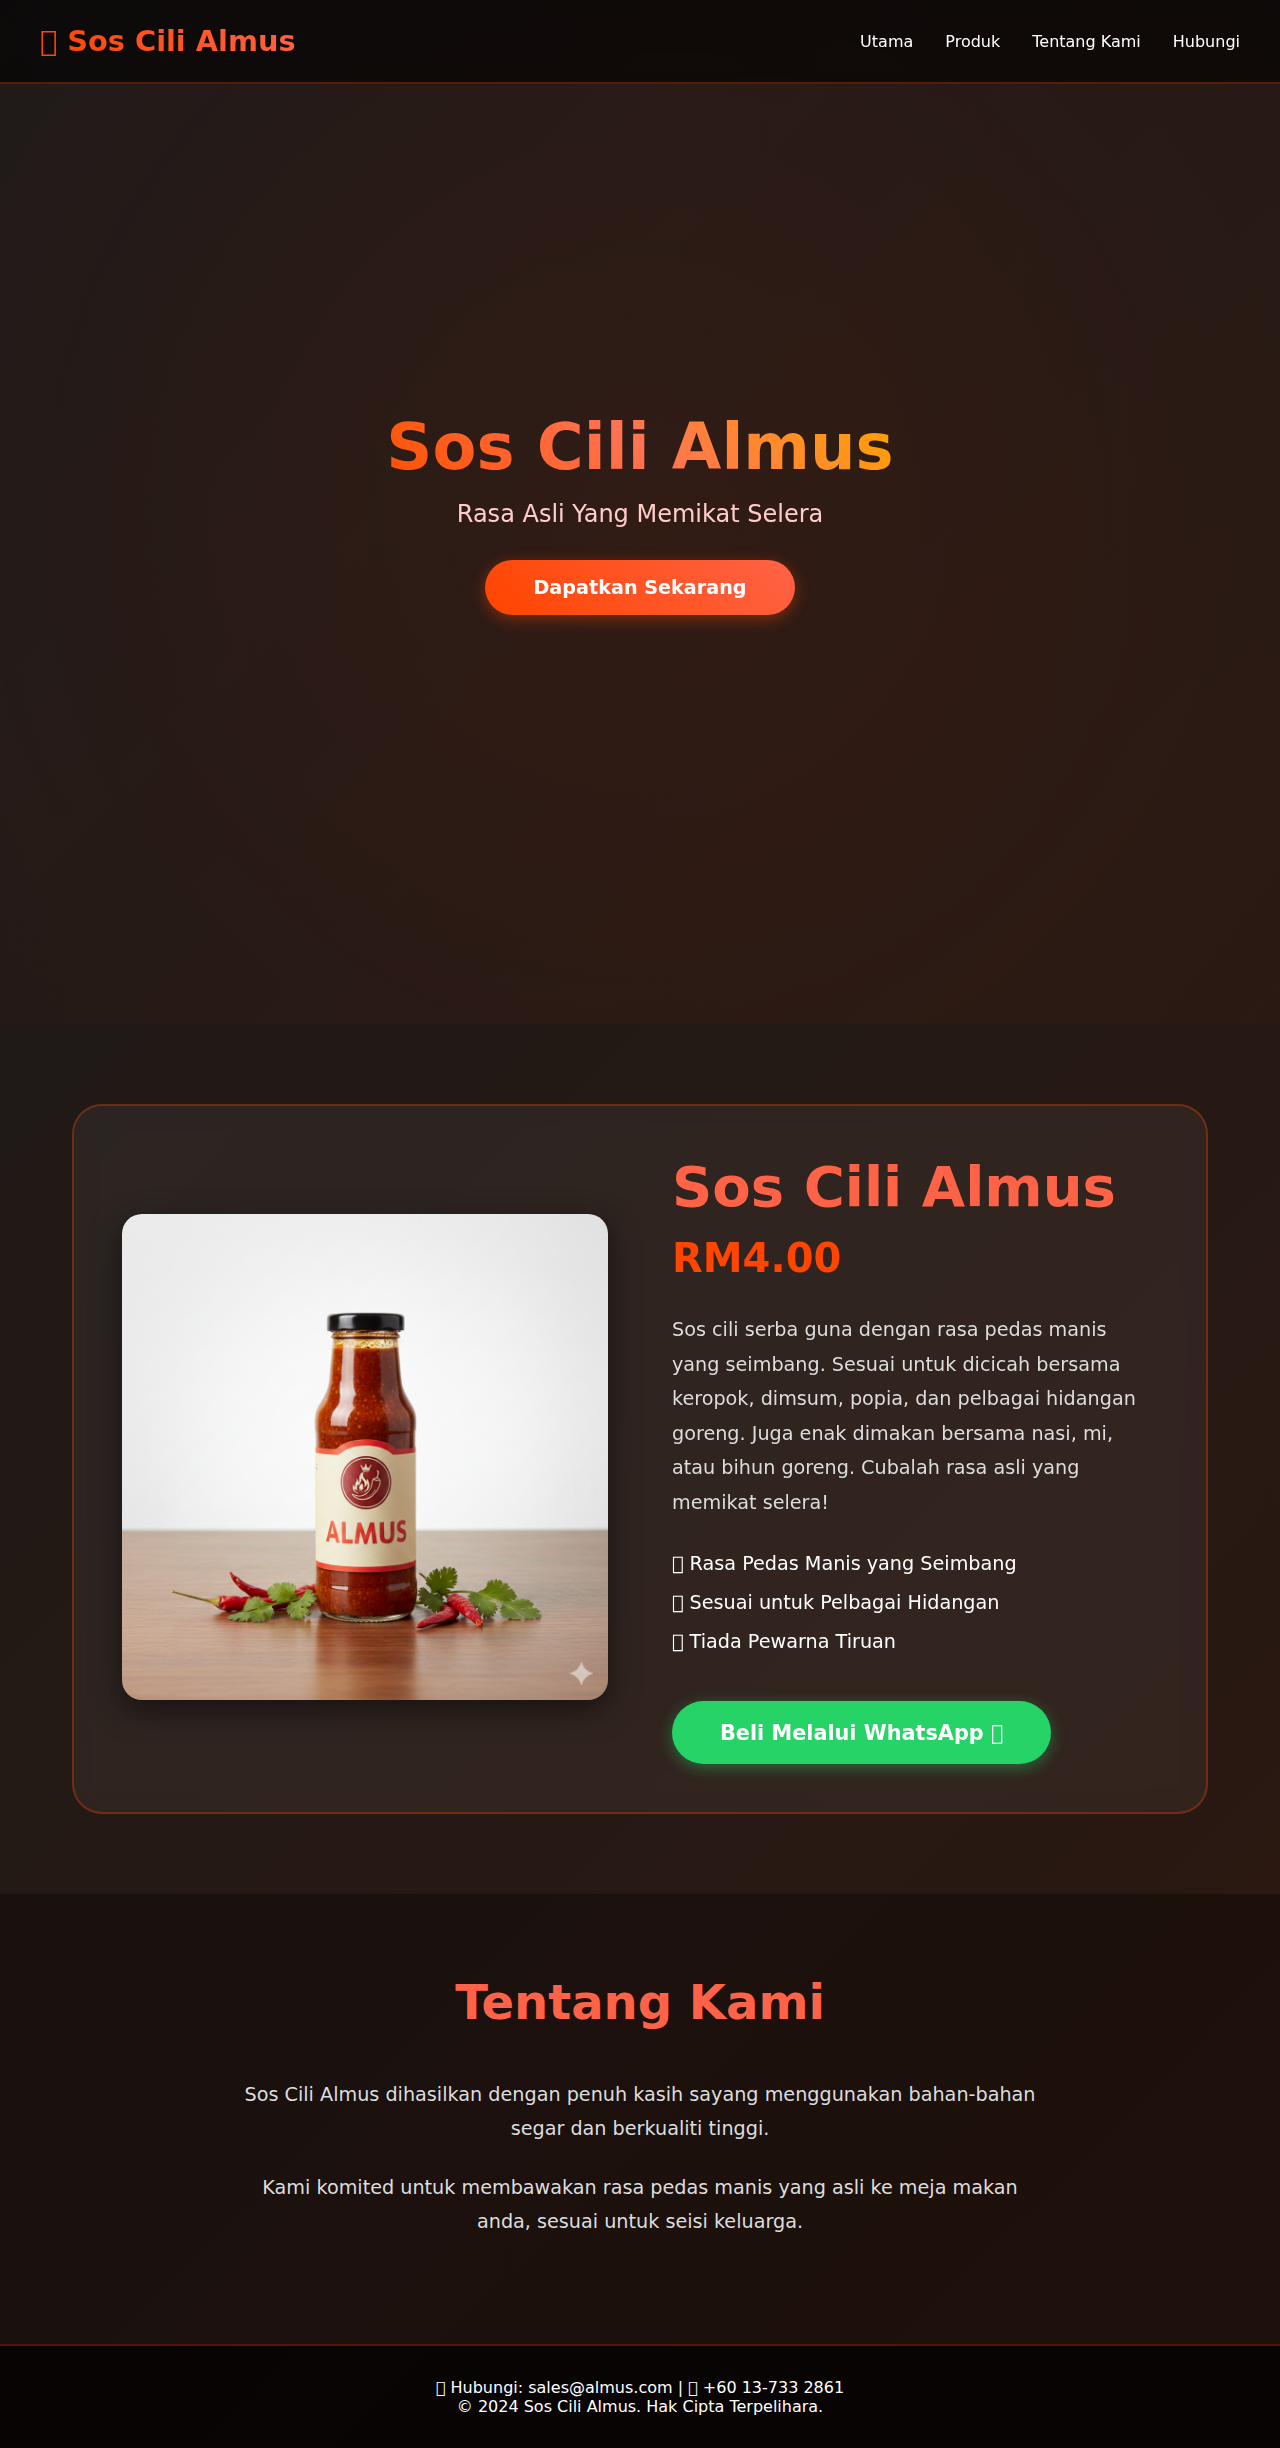
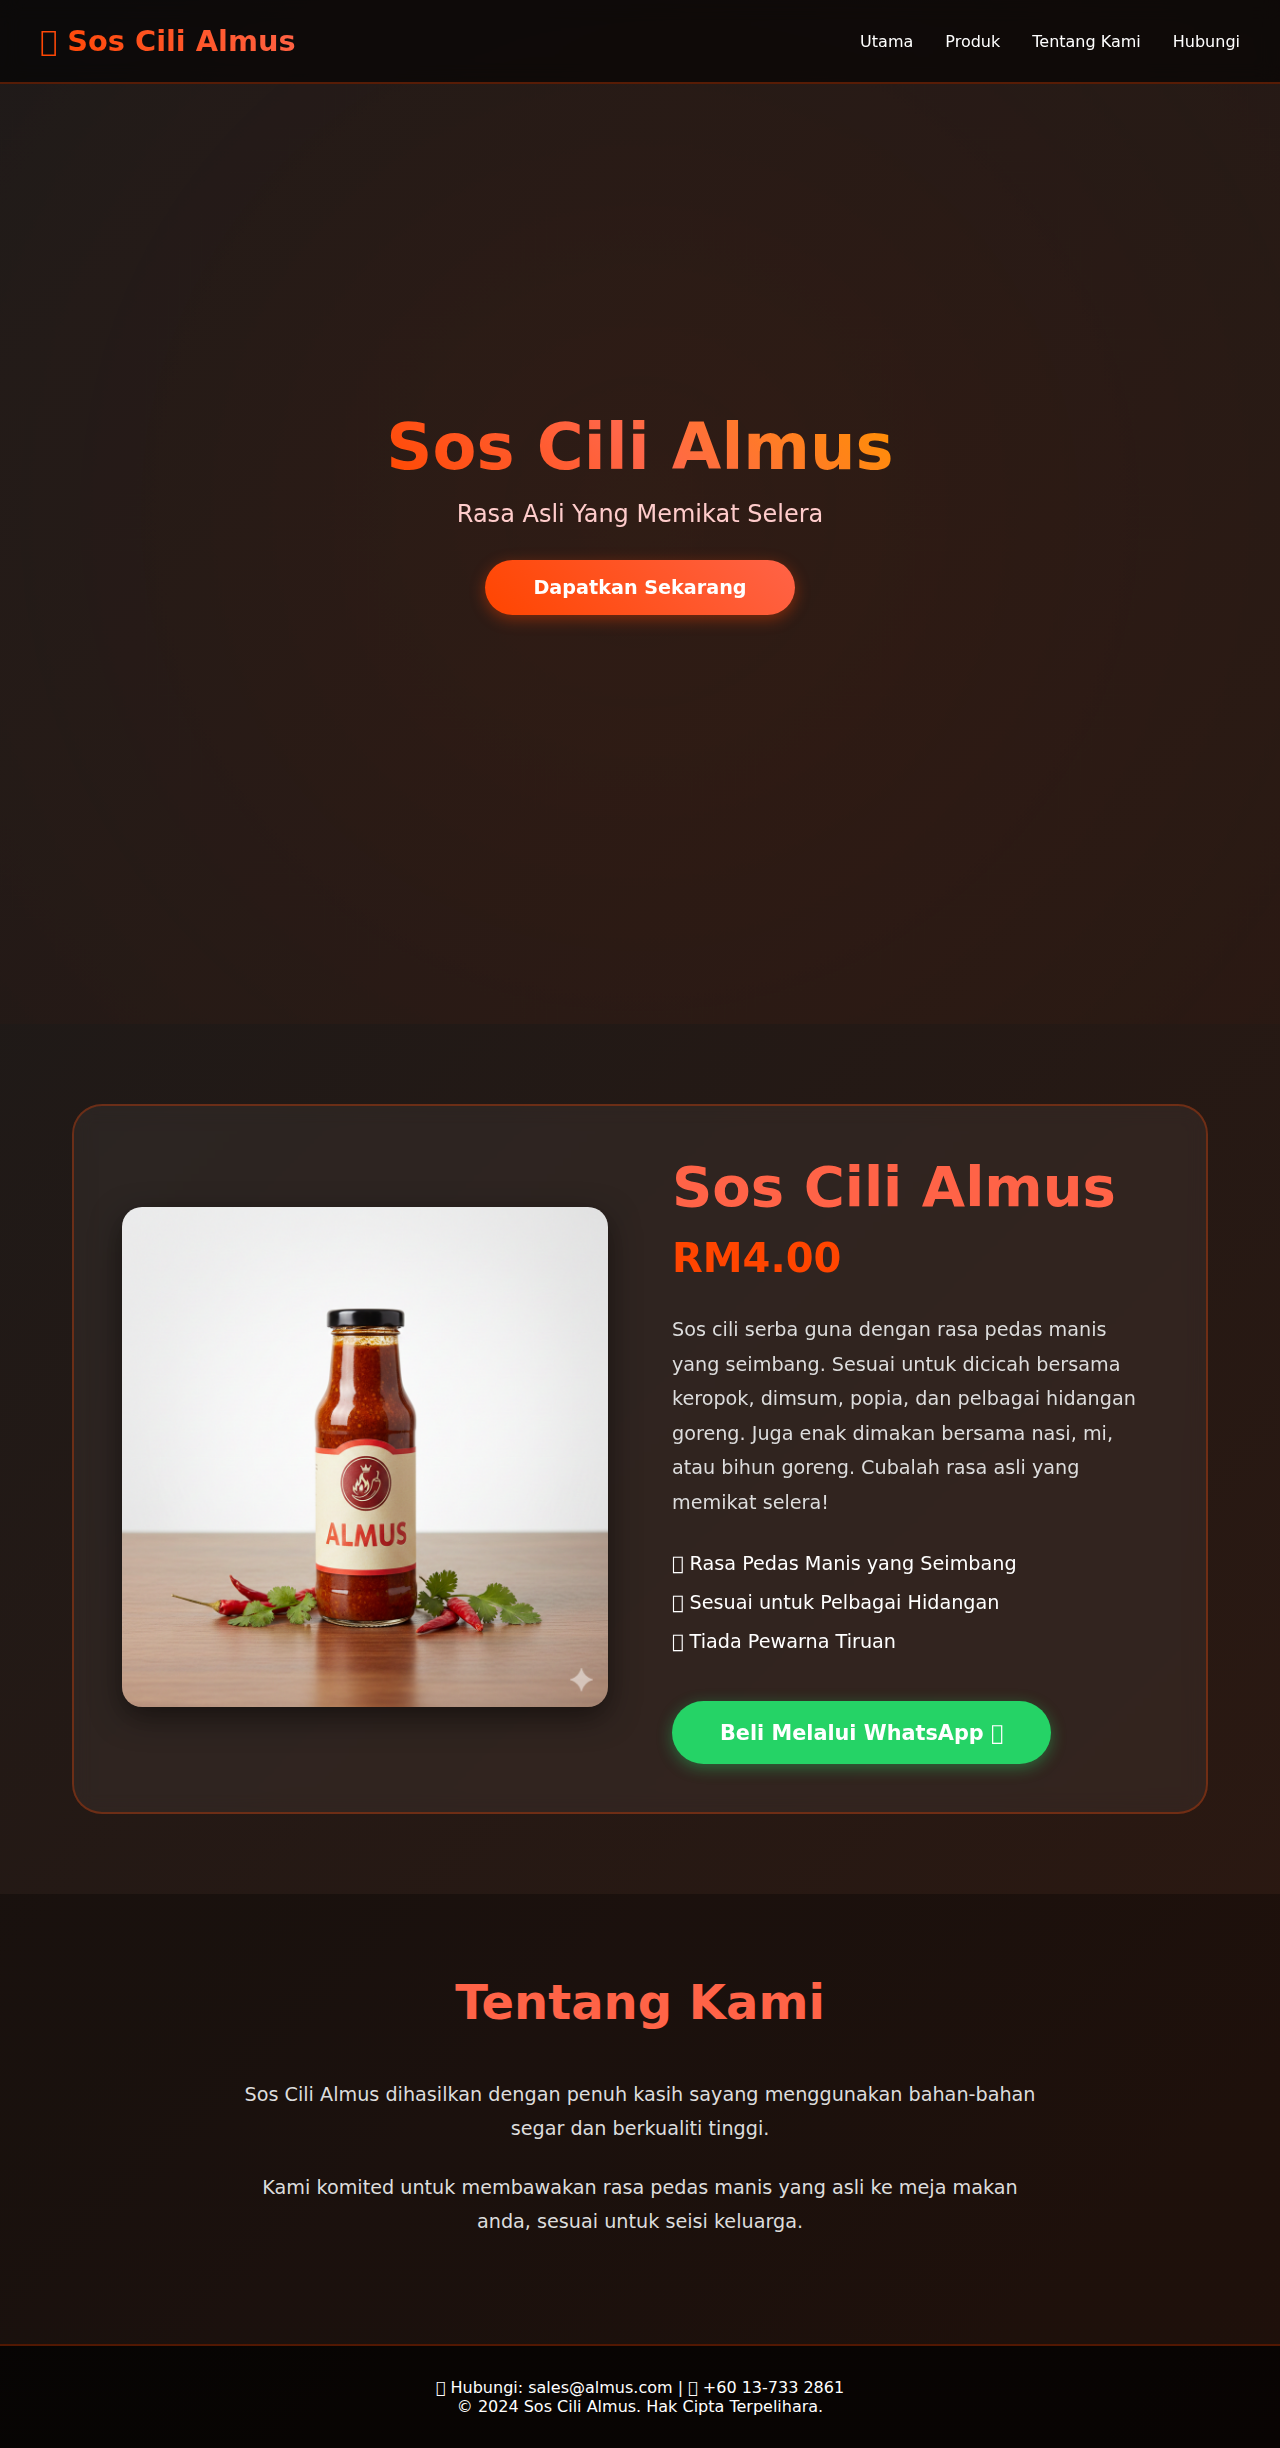
⚡ Bolt: Add width, height and lazy loading to product image
💡 What: Added `width="1024"`, `height="1024"`, and `loading="lazy"` attributes to the main product image in `index.html`.
🎯 Why: Prevents Cumulative Layout Shift (CLS) by reserving space for the image before load, and improves initial page load performance by deferring the loading of off-screen images.
📊 Impact: Eliminates layout shift for the product section and reduces initial bandwidth usage.
🔬 Measurement: Verified using Playwright screenshots to ensure no visual regressions.

Changed region(s): [[0.1562, 0.5899, 0.4375, 0.683], [0.25, 0.5278, 0.3125, 0.5588], [0.4375, 0.683, 0.4688, 0.7141]]

diff --git a/index.html b/index.html
@@ -30,7 +30,7 @@
     <section class="product-detail" id="product">
         <div class="product-container">
             <div class="product-image">
-                <img src="images/product.png" alt="Botol Sos Cili Almus">
+                <img src="images/product.png" alt="Botol Sos Cili Almus" width="1024" height="1024" loading="lazy">
             </div>
             <div class="product-info">
                 <h2>Sos Cili Almus</h2>
